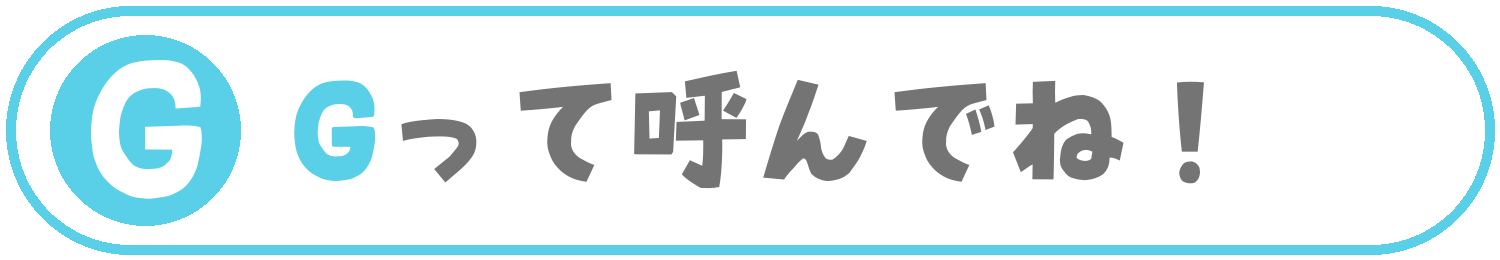
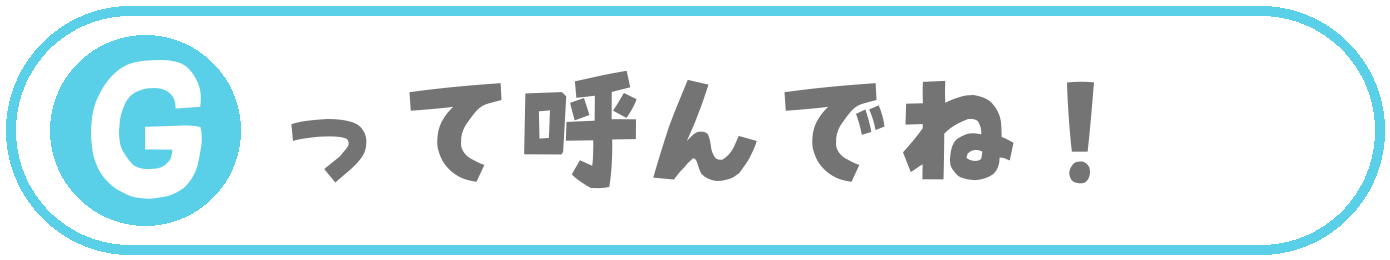
HP: YouTube赤背景+人気すぎる、スライドを4枚（女性・男性・3人2枚）に、Gバッジ整理、Q&Aにくつの質問を追加
Claude-Session: https://claude.ai/code/session_01XgjijxwWE51h29K9kvTzM4

diff --git a/index.html b/index.html
@@ -70,6 +70,7 @@
   "mainEntity": [
     {"@type": "Question","name": "動く時の服装は？","acceptedAnswer": {"@type": "Answer","text": "自分の動きやすい格好だったらなんでもOKです！"}},
     {"@type": "Question","name": "どのぐらいの時間ボクシングをしますか？","acceptedAnswer": {"@type": "Answer","text": "大体1〜2時間ぐらいされている方が多いです。でも体力は人それぞれなので自分にあったペースでOKです！"}},
+    {"@type": "Question","name": "靴はどんな靴がいいですか？","acceptedAnswer": {"@type": "Answer","text": "基本的には裏がきれいな靴であればOKです。おすすめはフットサルシューズです。ボクシングシューズはかなり高いので、最初は用意しなくて大丈夫です。"}},
     {"@type": "Question","name": "コースはとちゅうで変えれますか？","acceptedAnswer": {"@type": "Answer","text": "出来ますが、事務手数料がかかります。1件、1,650円（税こみ）になります。"}}
   ]
 }
@@ -84,7 +85,7 @@
 <style>
 @font-face{font-family:"RiiCookie";src:url("assets/fonts/RiiCookieRt.otf?v=20261117") format("opentype");font-display:swap}
 /* YouTube最新動画 */
-.yt-sec{background:#5ad0e8;padding:44px 0 48px;margin-top:0;font-family:"RiiCookie","Noto Sans JP",sans-serif}
+.yt-sec{background:#ff424e;padding:44px 0 48px;margin-top:0;font-family:"RiiCookie","Noto Sans JP",sans-serif}
 .yt-sec h2{font-size:3rem;line-height:1.4;color:#fff;font-weight:400;margin:0 12px 10px;letter-spacing:1px}
 .yt-sec h2 b{font-weight:400;color:#ff424e;background:#fff;border-radius:14px;padding:0 10px;display:inline-block}
 .yt-sec .yt-lead{font-size:1.5rem;line-height:1.8;color:#fff;margin:12px 24px 20px}
@@ -92,6 +93,7 @@
 .yt-frame{position:relative;width:100%;aspect-ratio:16/9;border-radius:18px;overflow:hidden;background:#222}
 .yt-frame iframe{position:absolute;inset:0;width:100%;height:100%;border:0}
 .yt-btn{display:block;margin:14px 10px 0;background:#ff424e;color:#fff;border-radius:40px;font-size:1.9rem;padding:13px 0;text-decoration:none}
+.yt-pop{display:inline-block;background:#f4efdb;color:#ff424e;font-size:1.7rem;border-radius:30px;padding:6px 20px;margin-bottom:16px;transform:rotate(-3deg);letter-spacing:1px}
 .yt-btn.o{background:#fff;color:#ff424e;border:3px solid #ff424e;padding:10px 0}
 /* 代表の想い */
 .msg-sec{background:#f4efdb;padding:44px 0 48px;font-family:"RiiCookie","Noto Sans JP",sans-serif;color:#555}
@@ -146,7 +148,7 @@
     </div>
   </nav>
 </header>
-<section id="top-main" class="top-main"> <img class="catchphrase" src="assets/pic/TOP/fitness-boxing-gym.png" alt="米子市のフィットネスボクシングジム"><h1 class="hero-slider" id="heroSlider"><div class="hs-track" id="heroTrack"><div class="hs-slide"><img src="assets/pic/TOP/top.png" alt="米子市のボクシングジム ワンバランスボクシングジム 女性会員のミット打ち"></div><div class="hs-slide"><img src="assets/pic/TOP/top-man.png" alt="ワンバランスボクシングジム 男性会員のパンチ"></div><div class="hs-slide"><img src="assets/pic/TOP/top.png" alt="ワンバランスボクシングジム 女性会員のミット打ち"></div><div class="hs-slide"><img src="assets/pic/TOP/top-man.png" alt="ワンバランスボクシングジム 男性会員のパンチ"></div><div class="hs-slide"><img src="assets/pic/TOP/top-gym.png" alt="ワンバランスボクシングジムのリングと練習スペース"></div><div class="hs-slide"><img src="assets/pic/TOP/top.png" alt=""></div></div></h1> <img class="no-player" src="assets/pic/TOP/no-player.png" alt="あえて選手育成しないボクシングジム。">
+<section id="top-main" class="top-main"> <img class="catchphrase" src="assets/pic/TOP/fitness-boxing-gym.png" alt="米子市のフィットネスボクシングジム"><h1 class="hero-slider" id="heroSlider"><div class="hs-track" id="heroTrack"><div class="hs-slide"><img src="assets/pic/TOP/top.png" alt="米子市のボクシングジム ワンバランスボクシングジム 女性会員のミット打ち"></div><div class="hs-slide"><img src="assets/pic/TOP/top-man.png" alt="ワンバランスボクシングジム 男性会員のパンチ"></div><div class="hs-slide"><img src="assets/pic/TOP/top-3a.png?v=20261118" alt="ワンバランスボクシングジム 会員さんとトレーナーのレッスン風景"></div><div class="hs-slide"><img src="assets/pic/TOP/top-3b.png?v=20261118" alt="ワンバランスボクシングジム 会員さんとトレーナーのシャドーボクシング"></div><div class="hs-slide"><img src="assets/pic/TOP/top.png" alt=""></div></div></h1> <img class="no-player" src="assets/pic/TOP/no-player.png" alt="あえて選手育成しないボクシングジム。">
   <p >ワンバランスは<br>
     選手育成を目的とせず、<br>
     &#12302;ボクシングやってみたかった&#12303;を<br>
@@ -177,6 +179,7 @@
   <div class="sns-box"> <a href="https://m.facebook.com/one.balance.boxing.gym/?locale2=ja_JP"><img   class="sns" src="assets/pic/TOP/icon/facebook.png" alt="facebook"></a> <a href="https://www.instagram.com/one.balance.yume/?igshid=YmMyMTA2M2Y%3D"><img class="sns" src="assets/pic/TOP/icon/instagram.png" alt="instagram"> </a> <a href="https://www.youtube.com/@%E3%83%AF%E3%83%B3%E3%83%90%E3%83%A9%E3%83%B3%E3%82%B9%E3%83%9C%E3%82%AF%E3%82%B7%E3%83%B3%E3%82%B0%E3%82%B8%E3%83%A0"><img class="sns" src="assets/pic/TOP/icon/youtube.png" alt="youtube"> </a></div>
 </section>
 <section class="yt-sec" id="youtube">
+<div class="yt-pop">▶ YouTube、人気すぎる！</div>
 <h2>大人になって<br>始めた人でも<br><b>できる</b>ボクシング</h2>
 <p class="yt-lead">ワンバランスのYouTubeでは、大人から始めた方でもできる技術を、しょうかいしています。</p>
 <div class="yt-box"><div class="yt-frame"><iframe src="https://www.youtube.com/embed/videoseries?list=UULFV8rLWSD4doN8OvCaVp-ygg" title="ワンバランスボクシングジムの最新動画" loading="lazy" allow="accelerometer; encrypted-media; gyroscope; picture-in-picture; web-share" allowfullscreen referrerpolicy="strict-origin-when-cross-origin"></iframe></div>
@@ -185,7 +188,7 @@
 </section>
 <section id="trial"> <img class="lets-try" src="assets/pic/TOP/lets-try.png" alt="どう？結構ワンバランスについて気になってきた？とりあえず体験予約してみない？"> <a href="https://onebalanceyume-beep.github.io/onebalance-member/onebalance-v9.html?menu=boxing"><img  class="try-button2" src="assets/pic/TOP/try-button2.png" alt="ボクシングの体験予約する"></a> <a href="https://onebalanceyume-beep.github.io/onebalance-member/onebalance-v9.html?menu=kick"><img  class="try-button1" src="assets/pic/TOP/try-button1.png" alt="キックエクササイズの体験予約する"></a> <img  class="look" src="assets/pic/TOP/look.png" alt="いやいやいや！体験って何するの？なんかドキドキするわ！って思うよね。そんな方は、ちょっとここのぞいてみて！"><a href="try.html"> <img class="look-button" src="assets/pic/TOP/look-button.png" alt="体験内容公開中"> </a> <img class="try-visit" src="assets/pic/TOP/try-visit.png" alt="いきなり体験はハードル高いわ！って思っちゃった？まずは見学からでも大丈夫！雰囲気を見てから体験してみない？"><a href="https://onebalanceyume-beep.github.io/onebalance-member/onebalance-v9.html?menu=tour"><img class="look-button" src="assets/pic/TOP/visit.png" alt="見学予約する"></a> </section>
 <section id="price"> <img src="assets/pic/TOP/together.png" alt="入会金いっしょ割 通常価格8,800円の入会金が、3人いっしょなら1人あたり0円、2人いっしょなら1人あたり4,400円"> <img class="top-price" src="assets/pic/TOP/price.png" alt="月会費（税込） キックエクササイズ：いつでも利用可能 男性7,260円・女性6,380円、週1 4,620円／ボクシング：いつでも利用可能 男性7,260円・女性6,380円、週1 4,620円／スパーリングボクシング：いつでも利用可能 男性7,810円・女性6,930円、週1 4,950円。週1コースは曜日を2つ決めていただき、どちらか1回利用可能です。"><a href="https://onebalanceyume-beep.github.io/onebalance-member/onebalance-v9.html?menu=join"><img class="join" src="assets/pic/TOP/join.png" alt="入会予約する"> </a></section>
-<section id="trainer" class="trainer"> <img class="message" src="assets/pic/trainer/punch2.png" alt="待ってます"> <img class="inata-3" src="assets/pic/trainer/inata.png" alt="トレーナー 稲田大地"> <img class="trainer-pic" src="assets/pic/trainer/inata-nagao.png" alt="ワンバランスボクシングジムのトレーナー 稲田大地・長尾儀弘"> <img class="nagao3" src="assets/pic/trainer/nagao.png" alt="トレーナー 長尾儀弘"> <img class="inata-g" src="assets/pic/trainer/inata-g.png" alt="稲田大地は通称G。Gって呼んでね！"> <img class="achievements" src="assets/pic/trainer/Achievements.png" alt="トレーナーの大会実績 2005年 全日本実業団ボクシング選手権 バンタム級 優勝／2006年 全日本実業団ボクシング選手権 フェザー級 優勝＆MVP（2階級制覇）／2006年 全日本社会人選手権 バンタム級 優勝／2007年 全日本実業団ボクシング選手権 ライト級 優勝＆MVP（3階級制覇・大会初）／2012年・2013年 全国高校総体 ライトウェルター級 出場／2013年 全国高校総体 中国大会 ライトウェルター級 準優勝"> </section>
+<section id="trainer" class="trainer"> <img class="message" src="assets/pic/trainer/punch2.png" alt="待ってます"> <img class="inata-3" src="assets/pic/trainer/inata.png" alt="トレーナー 稲田大地"> <img class="trainer-pic" src="assets/pic/trainer/inata-nagao.png" alt="ワンバランスボクシングジムのトレーナー 稲田大地・長尾儀弘"> <img class="nagao3" src="assets/pic/trainer/nagao.png" alt="トレーナー 長尾儀弘"> <img class="inata-g" src="assets/pic/trainer/inata-g.png?v=20261118" alt="稲田大地は通称G。Gって呼んでね！"> <img class="achievements" src="assets/pic/trainer/Achievements.png" alt="トレーナーの大会実績 2005年 全日本実業団ボクシング選手権 バンタム級 優勝／2006年 全日本実業団ボクシング選手権 フェザー級 優勝＆MVP（2階級制覇）／2006年 全日本社会人選手権 バンタム級 優勝／2007年 全日本実業団ボクシング選手権 ライト級 優勝＆MVP（3階級制覇・大会初）／2012年・2013年 全国高校総体 ライトウェルター級 出場／2013年 全国高校総体 中国大会 ライトウェルター級 準優勝"> </section>
 <section class="msg-sec" id="message">
 <h2>代表の想い</h2><div class="en">MESSAGE</div>
 <div class="msg-photo"><img src="assets/pic/TOP/daihyo.jpg" alt="ワンバランスボクシングジム代表 長尾儀弘"></div>
@@ -201,7 +204,7 @@
 <div class="msg-card"><span class="msg-tag">MISSION</span><div class="msg-t">ボクシング革命</div><div class="msg-p">「ボクシングは、きつい・つらい」を「楽しい」に変える。ボクシングの常識を変えていきます。</div></div>
 <div class="msg-end">選手を育てるジムではありません。<br>「ボクシングやってみたかった」を、みんなが気軽にできる場所。<br>その第一歩を、いつでも待っています。<span class="s">代表　<span class="nt">長尾 儀弘</span></span></div>
 </section>
-<section  id="top-qa"  class="top-qa"> <img src="assets/pic/TOP/q&a.png" alt="よくある質問"> <img src="assets/pic/TOP/q&a-long.png" alt="Q 動く時の服装は？ A 自分の動きやすい格好だったらなんでもOKです！ Q どのぐらいの時間ボクシングをしますか？ A 大体1〜2時間ぐらいされている方が多いです。でも体力は人それぞれなので自分にあったペースでOKです！ Q コースはとちゅうで変えれますか？ A 出来ますが、事務手数料がかかります。1件、1,650円（税こみ）になります。"> </section>
+<section  id="top-qa"  class="top-qa"> <img src="assets/pic/TOP/q&a.png" alt="よくある質問"> <img src="assets/pic/TOP/q&a-long.png?v=20261118" alt="Q 動く時の服装は？ A 自分の動きやすい格好だったらなんでもOKです！ Q くつはどんなくつがいいですか？ A 基本は裏がきれいなくつならOKです！おすすめはフットサルシューズです。ボクシングシューズは高いので最初は不要です！ Q どのぐらいの時間ボクシングをしますか？ A 大体1〜2時間ぐらいされている方が多いです。でも体力は人それぞれなので自分にあったペースでOKです！ Q コースはとちゅうで変えれますか？ A 出来ますが、事務手数料がかかります。1件、1,650円（税こみ）になります。"> </section>
 <section id="top-contact"> <a href="tel:0859495275"><img class="tel" src="assets/pic/TOP/tel.png" alt="電話番号 0859-49-5275"></a> <img class="address" src="assets/pic/TOP/address.png" alt="住所 〒683-0006 鳥取県米子市車尾6丁目8-59"> <img class="business-hours" src="assets/pic/TOP/business-hours.png" alt="営業時間 月〜金 16:00-22:00 土 16:00-20:00 日・祝 定休日 ※最終受付はCLOSEの30分前までにお願いします。"> <a class="navi-link" href="https://www.google.com/maps/dir/?api=1&amp;destination=%E3%83%AF%E3%83%B3%E3%83%90%E3%83%A9%E3%83%B3%E3%82%B9%E3%83%9C%E3%82%AF%E3%82%B7%E3%83%B3%E3%82%B0%E3%82%B8%E3%83%A0+%E9%B3%A5%E5%8F%96%E7%9C%8C%E7%B1%B3%E5%AD%90%E5%B8%82%E8%BB%8A%E5%B0%BE6%E4%B8%81%E7%9B%AE8-59&amp;travelmode=driving" target="_blank" rel="noopener"><img src="assets/pic/TOP/navi-button.png" alt="Googleマップでナビ開始（ワンバランスボクシングジムまで車で道案内）"></a> <img  src="assets/pic/TOP/map.png" alt="アクセス地図（日野川の土手沿い・旧日野橋の近く）"> <img class="parking" src="assets/pic/TOP/parking.png" alt="駐車場の案内（施設正面から見て右側が入口）"> </section>
 <fotter>
   <div class="fotter-box1"> <img class="fotter" src="assets/pic/TOP/fotter.png" alt="">
